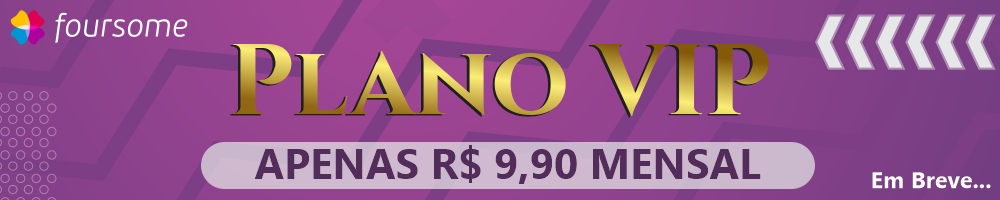
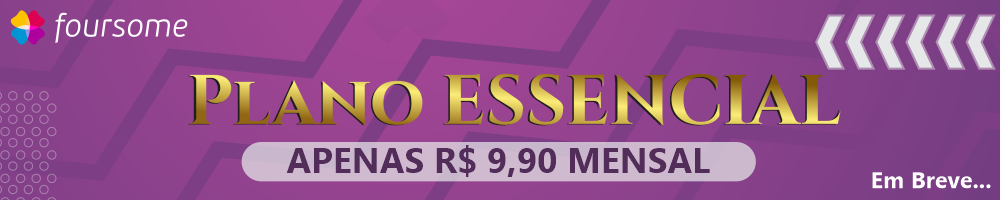
RECUPERAÇÃO DE SENHA, SEM ESPAÇO E SEM LETRA MAIÚSCULA

Changed region(s): [[0.186, 0.21, 0.837, 0.63], [0.186, 0.69, 0.837, 0.96]]

diff --git a/src/pages/Pricing/Pricing.jsx b/src/pages/Pricing/Pricing.jsx
@@ -18,7 +18,7 @@ function Pricing() {
 
                     <div className="payments">
                                 <div className="vip">
-                                        <h2> <b>Seja VIP <FaCrown /></b> </h2>
+                                        <h2> <b>Seja ESSENCIAL <FaCrown /></b> </h2>
                                         <div className="double">
                                         <h4>Curtir/Comentar</h4>
                                         <IoCheckmarkOutline color="#2aae2a"/>
@@ -60,9 +60,9 @@ function Pricing() {
                                         <IoCloseOutline color="Red"/>
                                         </div>
 
-                                        <h3><b>Seja Vip por: R$ 9,90</b></h3>
+                                        <h3><b>Seja Essencial por: R$ 9,90</b></h3>
 
-                                        <a href={`/menu`}>Quero ser VIP <FaCrown /> (Breve)</a>
+                                        <a href={`/menu`}>Quero ser ESSENCIAL <FaCrown /> (Breve)</a>
                                 </div>
                                 <div className="premium">
                                         <h2> <b>Seja PREMIUM <FaCrown /></b> </h2>

diff --git a/src/pages/Menu/Menu.jsx b/src/pages/Menu/Menu.jsx
@@ -56,7 +56,7 @@ function Menu() {
                 </div>
             </div>
             <div className="unic2">
-                <a href="/pricing" className="Primary"><FaCrown />Seja Vip por R$ 9,90</a>
+                <a href="/pricing" className="Primary"><FaCrown />Seja Essencial por R$ 9,90</a>
             </div>
 </div>
 </div>
